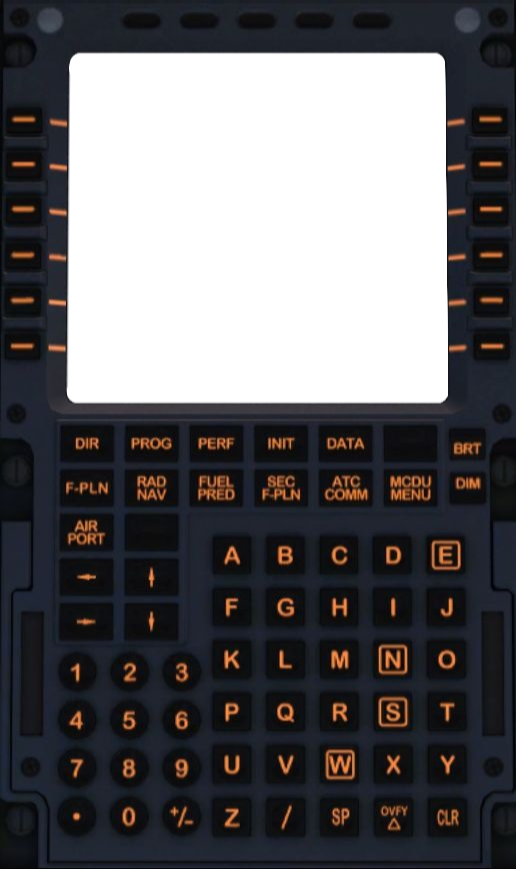
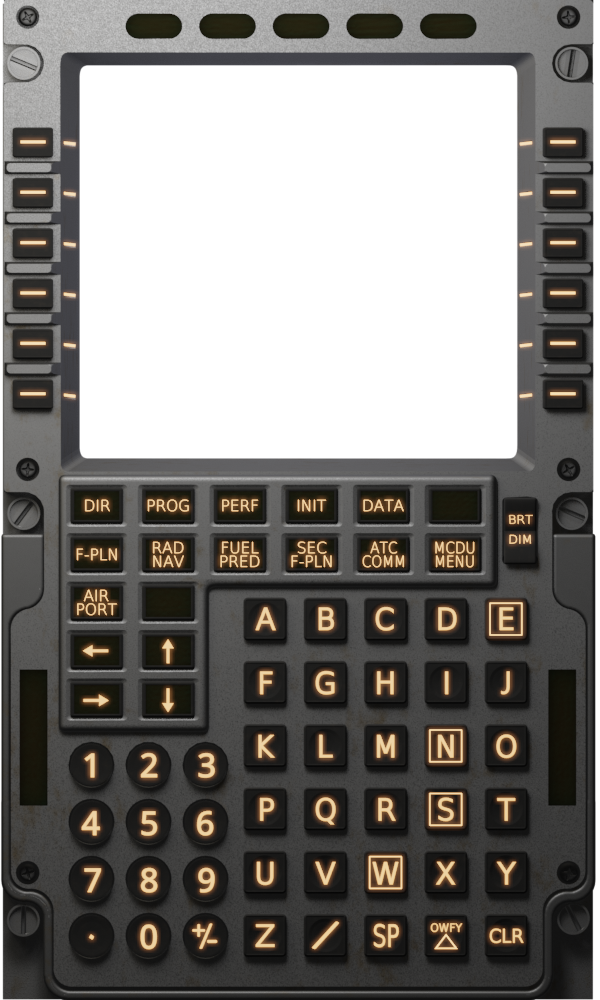
feat: adds newly rendered background image

diff --git a/css/mcdu.css b/css/mcdu.css
@@ -17,9 +17,9 @@ body {
 
 .mcdu {
     width: 100vw;
-    height: calc(100vw / .593);
+    height: calc(100vw / .6);
     max-height: 100vh;
-    max-width: calc(100vh * .593);
+    max-width: calc(100vh * .6);
     position: absolute;
     margin: auto;
     top: 0;
@@ -50,7 +50,7 @@ body {
     left: 13%;
     width: 73.5%;
     opacity: 0.5;
-    transform: scale(-1, 1);
+    transform: scale(1, -1);
     filter: blur(0.1vh);
 }
 
@@ -61,9 +61,9 @@ body {
 .screen-img,
 .screen-glow {
     position: absolute;
-    top: 7.2%;
-    left: 12.5%;
-    width: 74.8%;
+    top: 7.5%;
+    left: 13.4%;
+    width: 72.8%;
 }
 
 .screen-glow {
@@ -102,119 +102,119 @@ body {
 }
 
 .skbutton {
-    width: 6.5%;
-    height: 3.2%;
+    width: 7.7%;
+    height: 3.3%;
     border-radius: 0.2vh;
 }
 
 .menubutton {
-    width: 10.1%;
-    height: 4.1%;
+    width: 9.8%;
+    height: 4%;
     border-radius: 0.2vh;
 }
 
 .numberbutton {
-    width: 7.2%;
-    padding-bottom: 7.2%;
+    width: 7.5%;
+    padding-bottom: 7.5%;
     border-radius: 50%;
 }
 
 .alphabutton {
-    width: 7.2%;
-    padding-bottom: 7.2%;
+    width: 7.4%;
+    padding-bottom: 7.4%;
     border-radius: 0.2vh;
 }
 
 .skbuttons-left .skbutton {
-    left: 1.5%;
+    left: 1.6%;
 }
 
 .skbuttons-right .skbutton {
-    right: 1.5%;
+    right: 2.1%;
 }
 
 .sk-1 {
-    top: 12.1%;
+    top: 12.3%;
 }
 
 .sk-2 {
-    top: 17.2%;
+    top: 17.34%;
 }
 
 .sk-3 {
-    top: 22.3%;
+    top: 22.4%;
 }
 
 .sk-4 {
-    top: 27.5%;
+    top: 27.4%;
 }
 
 .sk-5 {
-    top: 32.7%;
+    top: 32.5%;
 }
 
 .sk-6 {
-    top: 37.8%;
+    top: 37.6%;
 }
 
 .menu-row1 .menubutton {
-    top: 48.7%;
+    top: 48.2%;
 }
 
 .menu-row2 .menubutton {
-    top: 53.8%;
+    top: 53.04%;
 }
 
 .menu-row3 .menubutton {
-    top: 58.9%;
+    top: 57.9%;
 }
 
 .menu-row4 .menubutton {
-    top: 64%;
+    top: 62.8%;
 }
 
 .menu-row5 .menubutton {
-    top: 69.1%;
+    top: 67.6%;
 }
 
 .menu-col1 {
-    left: 12%;
+    left: 11.3%;
 }
 
 .menu-col2 {
-    left: 24.5%;
+    left: 23.2%;
 }
 
 .menu-col3 {
-    left: 37.1%;
+    left: 35.1%;
 }
 
 .menu-col4 {
-    left: 49.6%;
+    left: 47%;
 }
 
 .menu-col5 {
-    left: 62.1%;
+    left: 59%;
 }
 
 .menu-col6 {
-    left: 74.6%;
+    left: 70.95%;
 }
 
 .number-row1 .numberbutton {
-    top: 74.9%;
+    top: 73.9%;
 }
 
 .number-row2 .numberbutton {
-    top: 80.4%;
+    top: 79.6%;
 }
 
 .number-row3 .numberbutton {
-    top: 85.8%;
+    top: 85.3%;
 }
 
 .number-row4 .numberbutton {
-    top: 91.3%;
+    top: 91%;
 }
 
 .number-col1 {
@@ -222,53 +222,53 @@ body {
 }
 
 .number-col2 {
-    left: 21.7%;
+    left: 21.1%;
 }
 
 .number-col3 {
-    left: 31.7%;
+    left: 30.6%;
 }
 
 .alphabutton-row1 .alphabutton {
-    top: 61.5%;
+    top: 59.5%;
 }
 
 .alphabutton-row2 .alphabutton {
-    top: 67.3%;
+    top: 65.8%;
 }
 
 .alphabutton-row3 .alphabutton {
-    top: 73.4%;
+    top: 72.1%;
 }
 
 .alphabutton-row4 .alphabutton {
-    top: 79.4%;
+    top: 78.4%;
 }
 
 .alphabutton-row5 .alphabutton {
-    top: 85.4%;
+    top: 84.8%;
 }
 
 .alphabutton-row6 .alphabutton {
-    top: 91.4%;
+    top: 91.1%;
 }
 
 .alphabutton-col1 {
-    left: 41.5%;
+    left: 40.6%;
 }
 
 .alphabutton-col2 {
-    left: 51.8%;
+    left: 50.7%;
 }
 
 .alphabutton-col3 {
-    left: 62.2%;
+    left: 60.7%;
 }
 
 .alphabutton-col4 {
-    left: 72.57%;
+    left: 70.7%;
 }
 
 .alphabutton-col5 {
-    left: 82.9%;
+    left: 80.7%;
 }

diff --git a/mcdu.html b/mcdu.html
@@ -10,10 +10,10 @@
     </head>
     <body data-used-universe="1" data-showbuttons="0">
         <div class="mcdu">
-            <img src="img/mcdu-bg-day.png" class="mcdu_case" />
+            <img src="img/mcdu-bg.png" class="mcdu_case" />
             <div class="mcdu-glass">
-                <img src="" data-element="lcdimage" class="screen-img" />
-                <img src="" data-element="lcdimage" class="screen-glow" />
+                <img src="" xdata-element="lcdimage" class="screen-img" />
+                <img src="" xdata-element="lcdimage" class="screen-glow" />
                 <img src="img/dust2.png" class="mcdu-glass--dust" />
             </div>
             <div class="mcdu-fg">
@@ -48,6 +48,7 @@
                     <div data-button="pagebutton:f-pln" class="menubutton menu-col1"></div>
                     <div data-button="pagebutton:radnav" class="menubutton menu-col2"></div>
                     <div data-button="pagebutton:fuel-pred" class="menubutton menu-col3"></div>
+                    <div data-button="" class="menubutton menu-col4"></div>
                     <div data-button="pagebutton:atc" class="menubutton menu-col5"></div>
                     <div data-button="pagebutton:mcdu" class="menubutton menu-col6"></div>
                 </div>
